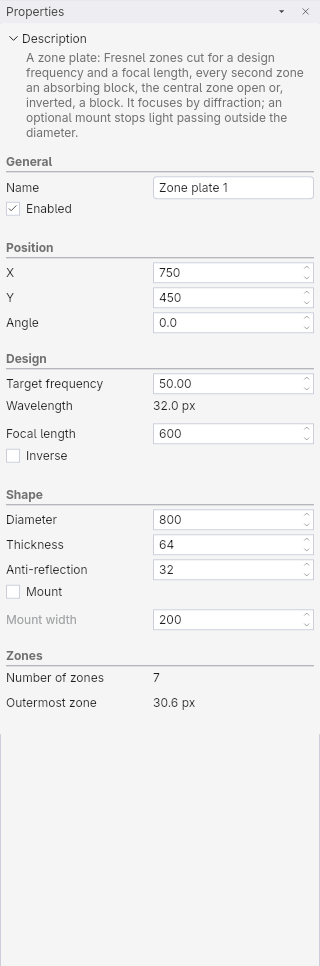
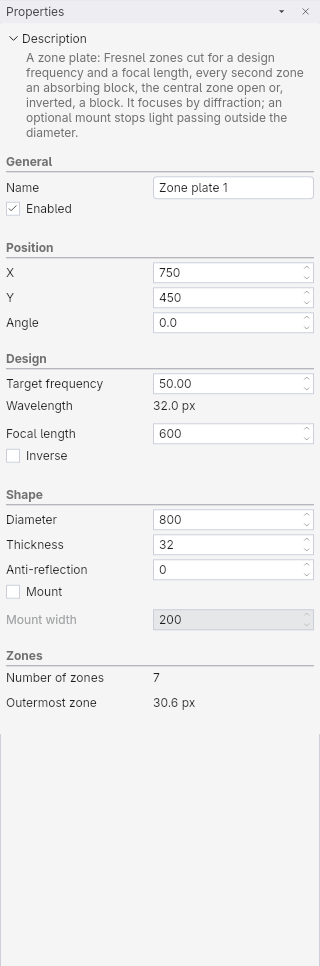
docs(manual): figures for the new parts, the detectors and the probe menu; the screenshot harness sweeps window sizes and the grips round-trip through their edits

Changed region(s): [[0.4688, 0.6211, 1.0, 0.6522], [0.5, 0.559, 0.5625, 0.5901]]

diff --git a/crates/wavedude-app/tests/screenshots.rs b/crates/wavedude-app/tests/screenshots.rs
@@ -2,7 +2,7 @@
 //! figures cropped to the control they show.
 //!
 //! `WAVEDUDE_SHOTS=<dir> cargo test -p wavedude-app --test screenshots -- --ignored window_states`
-//! `WAVEDUDE_FIGURES=crates/wavedude-app/assets/manual cargo test -p wavedude-app --test screenshots -- --ignored manual_figures`
+//! `WAVEDUDE_FIGURES=$PWD/crates/wavedude-app/assets/manual cargo test -p wavedude-app --test screenshots -- --ignored manual_figures`
 
 use std::path::PathBuf;
 use std::time::{Duration, Instant};
@@ -216,11 +216,27 @@ impl Shots {
 		self.test.sync_and_update();
 	}
 
+	/// Hovers the submenu entry `id` of an open menu until it unfolds.
+	fn hover_submenu(&mut self, id: &str) {
+		let entry = centre(self.area_of(id));
+		self.test.move_cursor(entry);
+		self.test.poll(Duration::from_millis(16), Duration::from_millis(600));
+	}
+
 	/// The last part added, selected.
 	fn add_part(&mut self, kind: NewPart) -> ItemRef {
 		self.command(Command::AddPart { kind, at: None });
 		let index = self.shared.peek(|a| a.document.project.parts.len() - 1);
 		let item = ItemRef::new(ItemKind::Part, index);
+		self.select(Row::Item(item));
+		item
+	}
+
+	/// The last probe added, selected.
+	fn add_probe(&mut self, detector: ProbeDetector) -> ItemRef {
+		self.command(Command::AddProbe { at: None, detector });
+		let index = self.shared.peek(|a| a.document.project.probes.len() - 1);
+		let item = ItemRef::new(ItemKind::Probe, index);
 		self.select(Row::Item(item));
 		item
 	}
@@ -258,6 +274,32 @@ fn window_states() {
 	s.test.sync_and_update();
 	s.shot("07-dock-dropped");
 	assert!(s.find_text("Properties").is_some(), "the dropped pane shows as a tab");
+}
+
+/// The window at common display sizes, with a long form (meta lens), a list editor (interference filter) and a
+/// detector selected, and the add-part menu open: where panes crowd or clip.
+#[test]
+#[ignore = "writes pictures; run with WAVEDUDE_SHOTS set"]
+fn window_sizes() {
+	let Some(dir) = out_dir("WAVEDUDE_SHOTS") else { return };
+	for (w, h) in [(1024., 600.), (1280., 720.), (1366., 768.), (1920., 1080.), (2560., 1440.)] {
+		let tag = format!("{w}x{h}");
+		let mut s = Shots::start(dir.clone(), (w, h));
+		s.run_to(200, 200);
+		s.add_part(NewPart::MetaLens);
+		s.shot(&format!("size-{tag}-meta-lens"));
+		s.add_part(NewPart::InterferenceFilter);
+		s.shot(&format!("size-{tag}-filter"));
+		s.add_probe(ProbeDetector::Imaging);
+		s.shot(&format!("size-{tag}-imaging"));
+		let part_button = s.area_of("ToolAddPart");
+		s.test.click_cursor(centre(part_button));
+		s.test.sync_and_update();
+		s.test.sync_and_update();
+		s.hover_submenu("AddPart:MetaSurfaces");
+		s.shot(&format!("size-{tag}-add-part"));
+		s.close_menu();
+	}
 }
 
 /// The README's animation: the logic gates example played through, one picture per frame of the sweep, for
@@ -332,6 +374,13 @@ fn manual_figures() {
 	s.test.sync_and_update();
 	s.figure("menu-add-part", s.area_under("AddPart:").union(&part_button), 2.);
 	s.close_menu();
+	let probe_button = s.area_of("ToolAddProbe");
+	s.test.click_cursor(centre(probe_button));
+	s.test.sync_and_update();
+	s.test.sync_and_update();
+	s.hover_submenu("AddProbe:Probabilistic");
+	s.figure("menu-add-probe", s.area_under("AddProbe:").union(&probe_button), 2.);
+	s.close_menu();
 
 	// The forms, in a taller window so each fits.
 	let mut s = Shots::start(dir, (1400., 1500.));
@@ -357,6 +406,7 @@ fn manual_figures() {
 	s.figure("properties-rectangle", pane(&s), 0.);
 	for (kind, name) in [
 		(NewPart::Lens, "properties-lens"),
+		(NewPart::FresnelLens, "properties-fresnel-lens"),
 		(NewPart::Polygon, "properties-polygon"),
 		(NewPart::Ellipse, "properties-ellipse"),
 		(NewPart::Triangle, "properties-triangle"),
@@ -365,6 +415,13 @@ fn manual_figures() {
 		(NewPart::BraggReflector, "properties-bragg-reflector"),
 		(NewPart::GrinLens, "properties-grin-lens"),
 		(NewPart::ZonePlate, "properties-zone-plate"),
+		(NewPart::Diffuser, "properties-diffuser"),
+		(NewPart::InterferenceFilter, "properties-interference-filter"),
+		(NewPart::SimpleGrating, "properties-simple-grating"),
+		(NewPart::FacettedGrating, "properties-facetted-grating"),
+		(NewPart::MetaLens, "properties-meta-lens"),
+		(NewPart::MetaPrism, "properties-meta-prism"),
+		(NewPart::MetaAxicon, "properties-meta-axicon"),
 		(NewPart::XorGate, "properties-xor-gate"),
 	] {
 		s.add_part(kind);
@@ -372,10 +429,14 @@ fn manual_figures() {
 	}
 	s.select(Row::Item(ItemRef::new(ItemKind::Probe, 0)));
 	s.figure("properties-line-probe", pane(&s), 0.);
-	s.command(Command::AddProbe { at: None, detector: ProbeDetector::Standard });
-	let probes = s.shared.peek(|a| a.document.project.probes.len());
-	s.select(Row::Item(ItemRef::new(ItemKind::Probe, probes - 1)));
-	s.figure("properties-probe", pane(&s), 0.);
+	for (detector, name) in [
+		(ProbeDetector::Standard, "properties-probe"),
+		(ProbeDetector::Counting, "properties-counting-detector"),
+		(ProbeDetector::Imaging, "properties-imaging-detector"),
+	] {
+		s.add_probe(detector);
+		s.figure(name, pane(&s), 0.);
+	}
 	s.command(Command::AddScheme);
 	let schemes = s.shared.peek(|a| a.document.project.color_schemes.len());
 	s.select(Row::Item(ItemRef::new(ItemKind::Scheme, schemes - 1)));

diff --git a/crates/wavedude-app/src/ui/preview/handles.rs b/crates/wavedude-app/src/ui/preview/handles.rs
@@ -469,7 +469,7 @@ pub fn to_part_frame(part: &Part, p: (f32, f32)) -> Vec2 {
 
 #[cfg(test)]
 mod tests {
-	use wavedude_core::model::{Probe, Rectangle, Source, SourceArray};
+	use wavedude_core::model::{self as m, Probe, Rectangle, Source, SourceArray};
 
 	use super::*;
 
@@ -619,6 +619,34 @@ mod tests {
 		let linked = PartKind::Rectangle(Rectangle { linked: true, ..Rectangle::default() });
 		assert_eq!(grip_edits(&linked, Vec2::new(5., 30.)), vec![("kind.Rectangle.width".into(), json!(60))]);
 		assert_eq!(grip_edits(&r, Vec2::new(0., 0.))[0].1, json!(1));
+	}
+
+	/// Every kind with a grip: dropping the grip where it stands leaves the part as it is, so a drag edits
+	/// what the grip shows.
+	#[test]
+	fn grips_round_trip_through_their_edits() {
+		let kinds = [
+			PartKind::Rectangle(Rectangle::default()),
+			PartKind::Ellipse(m::Ellipse::default()),
+			PartKind::Lens(m::Lens::default()),
+			PartKind::FresnelLens(m::FresnelLens::new_plate()),
+			PartKind::Diffuser(m::Diffuser::default()),
+			PartKind::FacettedGrating(m::FacettedGrating::default()),
+			PartKind::InterferenceFilter(m::InterferenceFilter::new_part()),
+			PartKind::MetaSurface(m::MetaSurface::new_part(m::MetaDesign::default())),
+			PartKind::GrinLens(m::GrinLens::default()),
+		];
+		for kind in kinds {
+			let grip = grip_of(&kind).expect("a grip");
+			let mut json = serde_json::to_value(&kind).unwrap();
+			for (path, value) in grip_edits(&kind, grip) {
+				let mut at = &mut json;
+				for key in path.split('.').skip(1) {
+					at = at.get_mut(key).unwrap_or_else(|| panic!("{path} in {kind:?}"));
+				}
+				assert_eq!(*at, value, "{path} of {kind:?}");
+			}
+		}
 	}
 
 	#[test]

diff --git a/crates/wavedude-app/src/ui/manual.rs b/crates/wavedude-app/src/ui/manual.rs
@@ -41,6 +41,7 @@ pub mod figures {
 		"menu-simulation",
 		"menu-help",
 		"menu-add-part",
+		"menu-add-probe",
 		"properties-project",
 		"properties-scene",
 		"properties-simulation",
@@ -48,6 +49,7 @@ pub mod figures {
 		"properties-source",
 		"properties-composite-source",
 		"properties-lens",
+		"properties-fresnel-lens",
 		"properties-polygon",
 		"properties-rectangle",
 		"properties-ellipse",
@@ -57,9 +59,18 @@ pub mod figures {
 		"properties-bragg-reflector",
 		"properties-grin-lens",
 		"properties-zone-plate",
+		"properties-diffuser",
+		"properties-interference-filter",
+		"properties-simple-grating",
+		"properties-facetted-grating",
+		"properties-meta-lens",
+		"properties-meta-prism",
+		"properties-meta-axicon",
 		"properties-xor-gate",
 		"properties-probe",
 		"properties-line-probe",
+		"properties-counting-detector",
+		"properties-imaging-detector",
 		"properties-colour-scheme",
 	);
 

diff --git a/crates/wavedude-app/assets/manual.md b/crates/wavedude-app/assets/manual.md
@@ -403,7 +403,7 @@ A lens or a mirror: a strip of the diameter between two spherical surfaces, each
 
 ### Fresnel lens
 
-A Fresnel lens: a lens whose curved surfaces are cut into zones from the axis to the rim, each zone's arc starting again at the vertex plane, so a thin plate bends light as a thick lens would. The settings are the lens's, with the number of zones and how they are divided; a flat surface stays flat. A new Fresnel lens is 500 pixels across with radii of 1500 on a plate 20 pixels thick. The deepest zone is the one the centre thickness must hold: a radius too curved for the plate is raised until that zone's sags fit, where a whole lens would need a far flatter one; the edge thickness is what the deepest zone leaves at the rim. There is no Concave box: a negative radius hollows a surface, as on the lens. Badges 1 to 15 are the shared and the glass and mirror settings.
+A Fresnel lens: a lens whose curved surfaces are cut into zones from the axis to the rim, each zone's arc starting again at the vertex plane, so a thin plate bends light as a thick lens would. The settings are the lens's, with the number of zones and how they are divided; a flat surface stays flat. A new Fresnel lens is 500 pixels across with radii of 1500 on a plate 20 pixels thick. The deepest zone is the one the centre thickness must hold: a radius too curved for the plate is raised until that zone's sags fit, where a whole lens would need a far flatter one; the edge thickness is what the deepest zone leaves at the rim. There is no Concave box: a negative radius hollows a surface, as on the lens. Badges 1 to 15 are the shared and the glass and mirror settings. <figure name="properties-fresnel-lens"/>
 
 16. **Diameter**: Extent across the axis in pixels.
 17. **R1**: Radius of the first surface in pixels: positive bulges outward, negative is concave, 0 is flat. A radius too curved for the diameter and the centre thickness is raised to the smallest whose zones fit.
@@ -518,7 +518,7 @@ A zone plate: Fresnel zones cut for a design frequency and a focal length, every
 
 ### Diffuser
 
-A diffuser: a plate of glass or mirror whose front face is rough, the back flat. The roughness is a spread of ripples about a centre wavelength, their phases random from the project's seed; it scatters what passes or reflects. Coat the front puts the anti-reflection band on the rough face, Coat the back on the flat one, at any angle; a new diffuser coats the back alone. The roughness is worked out again only when a roughness setting, the width, the name or the project's seed changes, so the same project always gives the same face. On the pictures, a selected diffuser shows a grip on its back corner that sets the length and the width. Badges 1 to 15 are the shared and the glass and mirror settings.
+A diffuser: a plate of glass or mirror whose front face is rough, the back flat. The roughness is a spread of ripples about a centre wavelength, their phases random from the project's seed; it scatters what passes or reflects. Coat the front puts the anti-reflection band on the rough face, Coat the back on the flat one, at any angle; a new diffuser coats the back alone. The roughness is worked out again only when a roughness setting, the width, the name or the project's seed changes, so the same project always gives the same face. On the pictures, a selected diffuser shows a grip on its back corner that sets the length and the width. Badges 1 to 15 are the shared and the glass and mirror settings. <figure name="properties-diffuser"/>
 
 16. **Length**: Extent along the axis in pixels: the plate's thickness at the mean of its rough face.
 17. **Width**: Extent across the axis in pixels: the width of the rough face.
@@ -530,7 +530,7 @@ A diffuser: a plate of glass or mirror whose front face is rough, the back flat.
 
 ### Interference filter
 
-An interference filter: a plate of glass or mirror with a stack of thin layers on its front, each with its own thickness and index. Waves reflected at the layers' boundaries interfere, so the stack reflects some wavelengths and passes others; a new filter is a quarter-wave stack for a wavelength of 16 pixels in the usual design, beginning and ending with the high index: from the outside in, five pairs of a layer of index 2.00, 2.00 pixels thick, and one of 1.50, 2.67 pixels thick, then one more layer of 2.00 on the plate, eleven layers that reflect most of a wave at that wavelength. The layers lie on the plate's front, outside it, so the plate keeps its length and the filter grows by the stack; the first layer in the list is the outermost, the one a wave from the left meets first. Ticking Mirror makes the plate a mirror and leaves the layers glass in front of it: a coated mirror. The plate's anti-reflection band can lie only on its back, the face away from the layers. On the pictures, a selected filter shows a grip on the plate's back corner that sets the length and the width. Badges 1 to 6 are the shared settings.
+An interference filter: a plate of glass or mirror with a stack of thin layers on its front, each with its own thickness and index. Waves reflected at the layers' boundaries interfere, so the stack reflects some wavelengths and passes others; a new filter is a quarter-wave stack for a wavelength of 16 pixels in the usual design, beginning and ending with the high index: from the outside in, five pairs of a layer of index 2.00, 2.00 pixels thick, and one of 1.50, 2.67 pixels thick, then one more layer of 2.00 on the plate, eleven layers that reflect most of a wave at that wavelength. The layers lie on the plate's front, outside it, so the plate keeps its length and the filter grows by the stack; the first layer in the list is the outermost, the one a wave from the left meets first. Ticking Mirror makes the plate a mirror and leaves the layers glass in front of it: a coated mirror. The plate's anti-reflection band can lie only on its back, the face away from the layers. On the pictures, a selected filter shows a grip on the plate's back corner that sets the length and the width. Badges 1 to 6 are the shared settings. <figure name="properties-interference-filter"/>
 
 7. **Mirror**: Makes the plate a mirror instead of glass; the layers stay glass in front of it. The plate's refractive index, coating and absorption are ignored then.
 8. **Refractive index**: Refractive index of the plate, 1.00 to 2.55 in steps of 0.01.
@@ -548,7 +548,7 @@ An interference filter: a plate of glass or mirror with a stack of thin layers o
 
 ### Simple 2D grating
 
-A simple 2D grating: a lattice of round dots, so many columns along the axis by so many rows across, each direction with its own spacing, nothing between them. The dots are mirror, or glass with an index; a wave passing the lattice is diffracted into the orders the spacings set. One column makes a line grating. A new grating is one column of 31 mirror dots, 16 pixels apart and 2 pixels across: a line grating across the axis, which a wave from the left meets. Odd counts keep the middle dot on the part's position, even counts put the position between two dots. The dots have no anti-reflection coating. Badges 1 to 6 are the shared settings.
+A simple 2D grating: a lattice of round dots, so many columns along the axis by so many rows across, each direction with its own spacing, nothing between them. The dots are mirror, or glass with an index; a wave passing the lattice is diffracted into the orders the spacings set. One column makes a line grating. A new grating is one column of 31 mirror dots, 16 pixels apart and 2 pixels across: a line grating across the axis, which a wave from the left meets. Odd counts keep the middle dot on the part's position, even counts put the position between two dots. The dots have no anti-reflection coating. Badges 1 to 6 are the shared settings. <figure name="properties-simple-grating"/>
 
 7. **Mirror**: Makes the dots mirrors instead of glass. The refractive index and the absorption are ignored then.
 8. **Refractive index**: Refractive index of the glass dots, 1.00 to 2.55 in steps of 0.01.
@@ -562,7 +562,7 @@ A simple 2D grating: a lattice of round dots, so many columns along the axis by 
 
 ### Facetted grating
 
-A facetted grating: a plate of glass or mirror whose front face carries a periodic relief, a sawtooth, a square wave or a sinusoid repeated every pitch, the back flat. A diffuser of one wavelength: the pitch and the wavelength set the angles the orders leave at. The anti-reflection coating can lie only on the flat back. On the pictures, a selected grating shows a grip on its back corner that sets the length and the width. Badges 1 to 6 are the shared settings, 7 to 13 the glass and mirror settings with the coating on the back alone.
+A facetted grating: a plate of glass or mirror whose front face carries a periodic relief, a sawtooth, a square wave or a sinusoid repeated every pitch, the back flat. A diffuser of one wavelength: the pitch and the wavelength set the angles the orders leave at. The anti-reflection coating can lie only on the flat back. On the pictures, a selected grating shows a grip on its back corner that sets the length and the width. Badges 1 to 6 are the shared settings, 7 to 13 the glass and mirror settings with the coating on the back alone. <figure name="properties-facetted-grating"/>
 
 14. **Length**: Extent along the axis in pixels: the plate's thickness at the mean of its facetted face.
 15. **Width**: Extent across the axis in pixels: the width of the facetted face.
@@ -572,7 +572,7 @@ A facetted grating: a plate of glass or mirror whose front face carries a period
 
 ### Meta lens
 
-A meta lens: a carrier plate with a sub-wavelength pattern on its front, a ridge of its own index in every cell, whose fill is computed from the target frequency and the focal length so the cells delay the wave as a lens would, zone by zone. The wave sees each cell as a mean index between the plate's surroundings and the ridge's, the more of the cell the ridge fills, the higher; a converging lens fills the cells most at the centre and less outward within each zone, where the fill starts over, a diverging one the other way. A new meta lens is cut for a wavelength of 32 pixels with a focal length of 500, cells of 4 pixels and ridges 32 pixels high of index 2.00: just the height a full turn of phase needs, which the form shows. The anti-reflection coating can lie on the ridges' tops (the front) and the plate's back. On the pictures, a selected meta lens shows a grip on the plate's back corner that sets the length and the width. Badges 1 to 6 are the shared settings, 7 to 14 the glass and mirror settings without the sides.
+A meta lens: a carrier plate with a sub-wavelength pattern on its front, a ridge of its own index in every cell, whose fill is computed from the target frequency and the focal length so the cells delay the wave as a lens would, zone by zone. The wave sees each cell as a mean index between the plate's surroundings and the ridge's, the more of the cell the ridge fills, the higher; a converging lens fills the cells most at the centre and less outward within each zone, where the fill starts over, a diverging one the other way. A new meta lens is cut for a wavelength of 32 pixels with a focal length of 500, cells of 4 pixels and ridges 32 pixels high of index 2.00: just the height a full turn of phase needs, which the form shows. The anti-reflection coating can lie on the ridges' tops (the front) and the plate's back. On the pictures, a selected meta lens shows a grip on the plate's back corner that sets the length and the width. Badges 1 to 6 are the shared settings, 7 to 14 the glass and mirror settings without the sides. <figure name="properties-meta-lens"/>
 
 15. **Length**: Thickness of the carrier plate along the axis in pixels; the pattern stands on its front, outside it.
 16. **Width**: Width of the plate and its pattern across the axis in pixels.
@@ -588,7 +588,7 @@ A meta lens: a carrier plate with a sub-wavelength pattern on its front, a ridge
 
 ### Meta prism
 
-A meta prism: a carrier plate with a sub-wavelength pattern on its front whose cells delay the wave in a line across the face, so a wave arriving along the axis leaves turned by a set angle, as a blazed grating's first order. The fill of the cells climbs across each zone and starts over at the next; a zone is a full turn of phase, the wavelength over the sine of the angle wide, and must stay a few cells wide, so steep angles need fine cells. A new meta prism is cut for a wavelength of 32 pixels and turns the wave by 20 degrees, with cells of 4 pixels and ridges 32 pixels high of index 2.00. The anti-reflection coating can lie on the ridges' tops and the plate's back. Badges 1 to 6 are the shared settings, 7 to 14 the glass and mirror settings without the sides, 15 and 16 the plate's length and width as the meta lens's.
+A meta prism: a carrier plate with a sub-wavelength pattern on its front whose cells delay the wave in a line across the face, so a wave arriving along the axis leaves turned by a set angle, as a blazed grating's first order. The fill of the cells climbs across each zone and starts over at the next; a zone is a full turn of phase, the wavelength over the sine of the angle wide, and must stay a few cells wide, so steep angles need fine cells. A new meta prism is cut for a wavelength of 32 pixels and turns the wave by 20 degrees, with cells of 4 pixels and ridges 32 pixels high of index 2.00. The anti-reflection coating can lie on the ridges' tops and the plate's back. Badges 1 to 6 are the shared settings, 7 to 14 the glass and mirror settings without the sides, 15 and 16 the plate's length and width as the meta lens's. <figure name="properties-meta-prism"/>
 
 17. **Target frequency**: The source frequency the prism is designed for, on the same scale as a source's frequency; the wavelength it gives sets the cells' fill. Another frequency is turned by another angle.
 18. **Wavelength**: The wavelength the target frequency gives in a medium of index 1. A read-out.
@@ -599,7 +599,7 @@ A meta prism: a carrier plate with a sub-wavelength pattern on its front whose c
 
 ### Meta axicon
 
-A meta axicon: a carrier plate with a sub-wavelength pattern on its front whose cells delay the wave in proportion to the distance from the axis, so the two halves of a wave arriving along the axis are turned toward it by a set angle and cross along a line behind the surface rather than at a point: a long, narrow focus that keeps its shape over its length. The fill is greatest on the axis and falls outward within each zone, as a converging lens's, but at an even pace. A new meta axicon is cut for a wavelength of 32 pixels with a cone angle of 10 degrees, cells of 4 pixels and ridges 32 pixels high of index 2.00. Badges 1 to 6 are the shared settings, 7 to 14 the glass and mirror settings without the sides, 15 and 16 the plate's length and width as the meta lens's.
+A meta axicon: a carrier plate with a sub-wavelength pattern on its front whose cells delay the wave in proportion to the distance from the axis, so the two halves of a wave arriving along the axis are turned toward it by a set angle and cross along a line behind the surface rather than at a point: a long, narrow focus that keeps its shape over its length. The fill is greatest on the axis and falls outward within each zone, as a converging lens's, but at an even pace. A new meta axicon is cut for a wavelength of 32 pixels with a cone angle of 10 degrees, cells of 4 pixels and ridges 32 pixels high of index 2.00. Badges 1 to 6 are the shared settings, 7 to 14 the glass and mirror settings without the sides, 15 and 16 the plate's length and width as the meta lens's. <figure name="properties-meta-axicon"/>
 
 17. **Target frequency**: The source frequency the axicon is designed for; the wavelength it gives sets the cells' fill.
 18. **Wavelength**: The wavelength the target frequency gives in a medium of index 1. A read-out.
@@ -639,7 +639,7 @@ A probe measures the wave where you put it and draws a graph over the picture of
 
 ### The kinds of probes
 
-The Add probe menu of the project tree.
+The Add probe menu of the project tree. <figure name="menu-add-probe"/>
 
 1. **Standard probe**: A standard probe: the field's amplitude, or the intensity's value or its integral, at a point over time or along a line.
 2. **Probabilistic**: The detectors, in a submenu of their own: the counting detector and the imaging detector.
@@ -683,11 +683,11 @@ The same form for a line probe of the intensity with a logarithmic value axis. A
 
 ### Counting detector
 
-The same form for a counting detector. The detector sets the layer, the measurement and the kind (7 to 9), which are greyed; the graph shows the detections of the whole line step by step, so the step axis settings (19 to 21) apply, and the bin size (6) does not.
+The same form for a counting detector. The detector sets the layer, the measurement and the kind (7 to 9), which are greyed; the graph shows the detections of the whole line step by step, so the step axis settings (19 to 21) apply, and the bin size (6) does not. <figure name="properties-counting-detector"/>
 
 ### Imaging detector
 
-The same form for an imaging detector. The detector sets the layer, the measurement and the kind (7 to 9), which are greyed; the graph shows the detections along the line from A to B, added up to the frame shown, in bins of the bin size (6), so the step axis settings (19 to 21) do not apply.
+The same form for an imaging detector. The detector sets the layer, the measurement and the kind (7 to 9), which are greyed; the graph shows the detections along the line from A to B, added up to the frame shown, in bins of the bin size (6), so the step axis settings (19 to 21) do not apply. <figure name="properties-imaging-detector"/>
 
 ## Colour schemes
 
